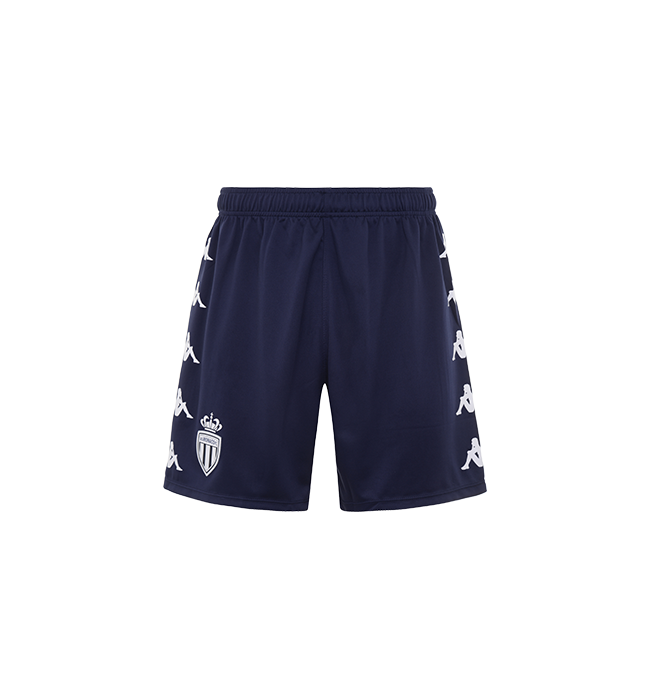
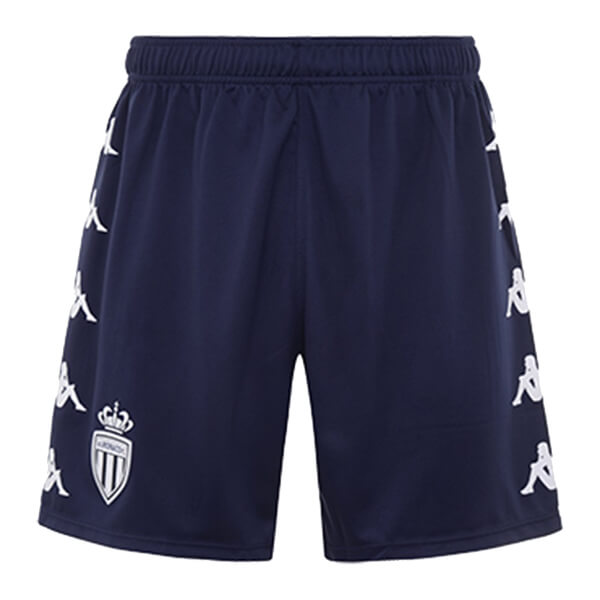
done ligue 1

diff --git a/src/Data/ProductInfo.js b/src/Data/ProductInfo.js
@@ -1497,6 +1497,355 @@ const ProductsInfo = [
     point: 3,
     des: "Lorem ipsum dolor sit amet, consectetur adipisicing elit. Quia nesciunt distinctio reprehenderit ad est mollitia ducimus neque consequuntur eos perferendis id pariatur, magnam quae esse facilis nihil accusantium deserunt totam."
 },
+/* end La Liga */
+/* monaco */
+{
+    id: "LG1MNCH2020SHIRT",
+    league: "Ligue 1",
+    club: "AS Monaco",
+    name: "Áo đấu AS Monaco sân nhà 2020/2021",
+    price: 1300000,
+    place: "home",
+    type: "shirt",
+    main_image: require("../Assets/images/product/ligue1/monaco/home/hu1.jpg"),
+    slide_image: [
+        require("../Assets/images/product/ligue1/monaco/home/hu1.jpg"),
+        require("../Assets/images/product/ligue1/monaco/home/hu2.jpg"),
+        require("../Assets/images/product/ligue1/monaco/home/hu3.jpg"),
+    ],
+    size: ["S", "M", "L", "XL", "2XL"],
+    top_sales: true,
+    top_viewed: true,
+    champion: true,
+    promotion: "10%",
+    point: 2,
+    des: "Lorem ipsum dolor sit amet, consectetur adipisicing elit. Quia nesciunt distinctio reprehenderit ad est mollitia ducimus neque consequuntur eos perferendis id pariatur, magnam quae esse facilis nihil accusantium deserunt totam."
+},
+{
+    id: "LG1MNCH2020SHORT",
+    league: "Ligue 1",
+    club: "AS Monaco",
+    name: "Quần AS Monaco sân nhà 2020/2021",
+    price: 400000,
+    place: "home",
+    type: "short",
+    main_image: require("../Assets/images/product/ligue1/monaco/home/hd1.jpg"),
+    slide_image: [
+        require("../Assets/images/product/ligue1/monaco/home/hd1.jpg"),
+        require("../Assets/images/product/ligue1/monaco/home/hd2.jpg")
+    ],
+    size: ["S", "M", "L", "XL", "2XL"],
+    top_sales: true,
+    top_viewed: true,
+    champion: true,
+    promotion: "",
+    point: 2,
+    des: "Lorem ipsum dolor sit amet, consectetur adipisicing elit. Quia nesciunt distinctio reprehenderit ad est mollitia ducimus neque consequuntur eos perferendis id pariatur, magnam quae esse facilis nihil accusantium deserunt totam."
+},
+{
+    id: "LG1MNCA2020SHIRT",
+    league: "Ligue 1",
+    club: "AS Monaco",
+    name: "Áo đấu AS Monaco sân khách 2020/2021",
+    price: 1200000,
+    place: "away",
+    type: "shirt",
+    main_image: require("../Assets/images/product/ligue1/monaco/away/au1.jpg"),
+    slide_image: [
+        require("../Assets/images/product/ligue1/monaco/away/au1.jpg"),
+        require("../Assets/images/product/ligue1/monaco/away/au2.jpg"),
+        require("../Assets/images/product/ligue1/monaco/away/au3.jpg"),
+    ],
+    size: ["S", "M", "L", "XL", "2XL"],
+    top_sales: true,
+    top_viewed: true,
+    champion: true,
+    promotion: "5%",
+    point: 2,
+    des: "Lorem ipsum dolor sit amet, consectetur adipisicing elit. Quia nesciunt distinctio reprehenderit ad est mollitia ducimus neque consequuntur eos perferendis id pariatur, magnam quae esse facilis nihil accusantium deserunt totam."
+},
+{
+    id: "LG1MNCA2020SHORT",
+    league: "Ligue 1",
+    club: "AS Monaco",
+    name: "Quần AS Monaco sân khách 2020/2021",
+    price: 400000,
+    place: "away",
+    type: "short",
+    main_image: require("../Assets/images/product/ligue1/monaco/away/ad1.jpg"),
+    slide_image: [
+        require("../Assets/images/product/ligue1/monaco/away/ad1.jpg"),
+        require("../Assets/images/product/ligue1/monaco/away/ad2.jpg")
+    ],
+    size: ["S", "M", "L", "XL", "2XL"],
+    top_sales: true,
+    top_viewed: true,
+    champion: true,
+    promotion: "15%",
+    point: 3,
+    des: "Lorem ipsum dolor sit amet, consectetur adipisicing elit. Quia nesciunt distinctio reprehenderit ad est mollitia ducimus neque consequuntur eos perferendis id pariatur, magnam quae esse facilis nihil accusantium deserunt totam."
+},
+/* olympique-lyonnais */
+{
+    id: "LG1OLOH2020SHIRT",
+    league: "Ligue 1",
+    club: "Olympique Lyonnais",
+    name: "Áo đấu Olympique Lyonnais sân nhà 2020/2021",
+    price: 1400000,
+    place: "home",
+    type: "shirt",
+    main_image: require("../Assets/images/product/ligue1/olympique-lyonnais/home/hu1.jpg"),
+    slide_image: [
+        require("../Assets/images/product/ligue1/olympique-lyonnais/home/hu1.jpg"),
+        require("../Assets/images/product/ligue1/olympique-lyonnais/home/hu2.jpg"),
+        require("../Assets/images/product/ligue1/olympique-lyonnais/home/hu3.jpg"),
+    ],
+    size: ["S", "M", "L", "XL", "2XL"],
+    top_sales: true,
+    top_viewed: true,
+    champion: true,
+    promotion: "20%",
+    point: 2,
+    des: "Lorem ipsum dolor sit amet, consectetur adipisicing elit. Quia nesciunt distinctio reprehenderit ad est mollitia ducimus neque consequuntur eos perferendis id pariatur, magnam quae esse facilis nihil accusantium deserunt totam."
+},
+{
+    id: "LG1OLOH2020SHORT",
+    league: "Ligue 1",
+    club: "Olympique Lyonnais",
+    name: "Quần Olympique Lyonnais sân nhà 2020/2021",
+    price: 600000,
+    place: "home",
+    type: "short",
+    main_image: require("../Assets/images/product/ligue1/olympique-lyonnais/home/hd1.jpg"),
+    slide_image: [
+        require("../Assets/images/product/ligue1/olympique-lyonnais/home/hd1.jpg"),
+        require("../Assets/images/product/ligue1/olympique-lyonnais/home/hd2.jpg")
+    ],
+    size: ["S", "M", "L", "XL", "2XL"],
+    top_sales: true,
+    top_viewed: true,
+    champion: true,
+    promotion: "",
+    point: 3,
+    des: "Lorem ipsum dolor sit amet, consectetur adipisicing elit. Quia nesciunt distinctio reprehenderit ad est mollitia ducimus neque consequuntur eos perferendis id pariatur, magnam quae esse facilis nihil accusantium deserunt totam."
+},
+{
+    id: "LG1OLOA2020SHIRT",
+    league: "Ligue 1",
+    club: "Olympique Lyonnais",
+    name: "Áo đấu Olympique Lyonnais sân khách 2020/2021",
+    price: 1400000,
+    place: "away",
+    type: "shirt",
+    main_image: require("../Assets/images/product/ligue1/olympique-lyonnais/away/au1.jpg"),
+    slide_image: [
+        require("../Assets/images/product/ligue1/olympique-lyonnais/away/au1.jpg"),
+        require("../Assets/images/product/ligue1/olympique-lyonnais/away/au2.jpg"),
+        require("../Assets/images/product/ligue1/olympique-lyonnais/away/au3.jpg"),
+    ],
+    size: ["S", "M", "L", "XL", "2XL"],
+    top_sales: true,
+    top_viewed: true,
+    champion: true,
+    promotion: "15%",
+    point: 2,
+    des: "Lorem ipsum dolor sit amet, consectetur adipisicing elit. Quia nesciunt distinctio reprehenderit ad est mollitia ducimus neque consequuntur eos perferendis id pariatur, magnam quae esse facilis nihil accusantium deserunt totam."
+},
+{
+    id: "LG1OLOA2020SHORT",
+    league: "Ligue 1",
+    club: "Olympique Lyonnais",
+    name: "Quần Olympique Lyonnais sân khách 2020/2021",
+    price: 400000,
+    place: "away",
+    type: "short",
+    main_image: require("../Assets/images/product/ligue1/olympique-lyonnais/away/ad1.jpg"),
+    slide_image: [
+        require("../Assets/images/product/ligue1/olympique-lyonnais/away/ad1.jpg"),
+        require("../Assets/images/product/ligue1/olympique-lyonnais/away/ad2.jpg")
+    ],
+    size: ["S", "M", "L", "XL", "2XL"],
+    top_sales: true,
+    top_viewed: true,
+    champion: true,
+    promotion: "15%",
+    point: 3,
+    des: "Lorem ipsum dolor sit amet, consectetur adipisicing elit. Quia nesciunt distinctio reprehenderit ad est mollitia ducimus neque consequuntur eos perferendis id pariatur, magnam quae esse facilis nihil accusantium deserunt totam."
+},
+/* olympique-marseille */
+{
+    id: "LG1OMSH2020SHIRT",
+    league: "Ligue 1",
+    club: "Olympique Marseille",
+    name: "Áo đấu Olympique Marseille sân nhà 2020/2021",
+    price: 1500000,
+    place: "home",
+    type: "shirt",
+    main_image: require("../Assets/images/product/ligue1/olympique-marseille/home/hu1.jpg"),
+    slide_image: [
+        require("../Assets/images/product/ligue1/olympique-marseille/home/hu1.jpg"),
+        require("../Assets/images/product/ligue1/olympique-marseille/home/hu2.jpg"),
+        require("../Assets/images/product/ligue1/olympique-marseille/home/hu3.jpg"),
+    ],
+    size: ["S", "M", "L", "XL", "2XL"],
+    top_sales: true,
+    top_viewed: true,
+    champion: true,
+    promotion: "10%",
+    point: 2,
+    des: "Lorem ipsum dolor sit amet, consectetur adipisicing elit. Quia nesciunt distinctio reprehenderit ad est mollitia ducimus neque consequuntur eos perferendis id pariatur, magnam quae esse facilis nihil accusantium deserunt totam."
+},
+{
+    id: "LG1OMSH2020SHORT",
+    league: "Ligue 1",
+    club: "Olympique Marseille",
+    name: "Quần Olympique Marseille sân nhà 2020/2021",
+    price: 700000,
+    place: "home",
+    type: "short",
+    main_image: require("../Assets/images/product/ligue1/olympique-marseille/home/hd1.jpg"),
+    slide_image: [
+        require("../Assets/images/product/ligue1/olympique-marseille/home/hd1.jpg"),
+        require("../Assets/images/product/ligue1/olympique-marseille/home/hd2.jpg")
+    ],
+    size: ["S", "M", "L", "XL", "2XL"],
+    top_sales: true,
+    top_viewed: true,
+    champion: true,
+    promotion: "",
+    point: 3,
+    des: "Lorem ipsum dolor sit amet, consectetur adipisicing elit. Quia nesciunt distinctio reprehenderit ad est mollitia ducimus neque consequuntur eos perferendis id pariatur, magnam quae esse facilis nihil accusantium deserunt totam."
+},
+{
+    id: "LG1OMSA2020SHIRT",
+    league: "Ligue 1",
+    club: "Olympique Marseille",
+    name: "Áo đấu Olympique Marseille sân khách 2020/2021",
+    price: 1500000,
+    place: "away",
+    type: "shirt",
+    main_image: require("../Assets/images/product/ligue1/olympique-marseille/away/au1.jpg"),
+    slide_image: [
+        require("../Assets/images/product/ligue1/olympique-marseille/away/au1.jpg"),
+        require("../Assets/images/product/ligue1/olympique-marseille/away/au2.jpg"),
+        require("../Assets/images/product/ligue1/olympique-marseille/away/au3.jpg"),
+    ],
+    size: ["S", "M", "L", "XL", "2XL"],
+    top_sales: true,
+    top_viewed: true,
+    champion: true,
+    promotion: "25%",
+    point: 2,
+    des: "Lorem ipsum dolor sit amet, consectetur adipisicing elit. Quia nesciunt distinctio reprehenderit ad est mollitia ducimus neque consequuntur eos perferendis id pariatur, magnam quae esse facilis nihil accusantium deserunt totam."
+},
+{
+    id: "LG1OMSA2020SHORT",
+    league: "Ligue 1",
+    club: "Olympique Marseille",
+    name: "Quần Olympique Marseille sân khách 2020/2021",
+    price: 500000,
+    place: "away",
+    type: "short",
+    main_image: require("../Assets/images/product/ligue1/olympique-marseille/away/ad1.jpg"),
+    slide_image: [
+        require("../Assets/images/product/ligue1/olympique-marseille/away/ad1.jpg"),
+        require("../Assets/images/product/ligue1/olympique-marseille/away/ad2.jpg")
+    ],
+    size: ["S", "M", "L", "XL", "2XL"],
+    top_sales: true,
+    top_viewed: true,
+    champion: true,
+    promotion: "20%",
+    point: 3,
+    des: "Lorem ipsum dolor sit amet, consectetur adipisicing elit. Quia nesciunt distinctio reprehenderit ad est mollitia ducimus neque consequuntur eos perferendis id pariatur, magnam quae esse facilis nihil accusantium deserunt totam."
+},
+/* PSG */
+{
+    id: "LG1PSGH2020SHIRT",
+    league: "Ligue 1",
+    club: "Paris Saint Germain",
+    name: "Áo đấu Paris Saint Germain sân nhà 2020/2021",
+    price: 1900000,
+    place: "home",
+    type: "shirt",
+    main_image: require("../Assets/images/product/ligue1/psg/home/hu1.jpg"),
+    slide_image: [
+        require("../Assets/images/product/ligue1/psg/home/hu1.jpg"),
+        require("../Assets/images/product/ligue1/psg/home/hu2.jpg"),
+        require("../Assets/images/product/ligue1/psg/home/hu3.jpg"),
+    ],
+    size: ["S", "M", "L", "XL", "2XL"],
+    top_sales: true,
+    top_viewed: true,
+    champion: true,
+    promotion: "20%",
+    point: 5,
+    des: "Lorem ipsum dolor sit amet, consectetur adipisicing elit. Quia nesciunt distinctio reprehenderit ad est mollitia ducimus neque consequuntur eos perferendis id pariatur, magnam quae esse facilis nihil accusantium deserunt totam."
+},
+{
+    id: "LG1PSGH2020SHORT",
+    league: "Ligue 1",
+    club: "Paris Saint Germain",
+    name: "Quần Paris Saint Germain sân nhà 2020/2021",
+    price: 800000,
+    place: "home",
+    type: "short",
+    main_image: require("../Assets/images/product/ligue1/psg/home/hd1.jpg"),
+    slide_image: [
+        require("../Assets/images/product/ligue1/psg/home/hd1.jpg"),
+        require("../Assets/images/product/ligue1/psg/home/hd2.jpg")
+    ],
+    size: ["S", "M", "L", "XL", "2XL"],
+    top_sales: true,
+    top_viewed: true,
+    champion: true,
+    promotion: "",
+    point: 3,
+    des: "Lorem ipsum dolor sit amet, consectetur adipisicing elit. Quia nesciunt distinctio reprehenderit ad est mollitia ducimus neque consequuntur eos perferendis id pariatur, magnam quae esse facilis nihil accusantium deserunt totam."
+},
+{
+    id: "LG1PSGA2020SHIRT",
+    league: "Ligue 1",
+    club: "Paris Saint Germain",
+    name: "Áo đấu Paris Saint Germain sân khách 2020/2021",
+    price: 1900000,
+    place: "away",
+    type: "shirt",
+    main_image: require("../Assets/images/product/ligue1/psg/away/au1.jpg"),
+    slide_image: [
+        require("../Assets/images/product/ligue1/psg/away/au1.jpg"),
+        require("../Assets/images/product/ligue1/psg/away/au2.jpg"),
+        require("../Assets/images/product/ligue1/psg/away/au3.jpg"),
+    ],
+    size: ["S", "M", "L", "XL", "2XL"],
+    top_sales: true,
+    top_viewed: true,
+    champion: true,
+    promotion: "15%",
+    point: 5,
+    des: "Lorem ipsum dolor sit amet, consectetur adipisicing elit. Quia nesciunt distinctio reprehenderit ad est mollitia ducimus neque consequuntur eos perferendis id pariatur, magnam quae esse facilis nihil accusantium deserunt totam."
+},
+{
+    id: "LG1PSGA2020SHORT",
+    league: "Ligue 1",
+    club: "Paris Saint Germain",
+    name: "Quần Paris Saint Germain sân khách 2020/2021",
+    price: 800000,
+    place: "away",
+    type: "short",
+    main_image: require("../Assets/images/product/ligue1/psg/away/ad1.jpg"),
+    slide_image: [
+        require("../Assets/images/product/ligue1/psg/away/ad1.jpg"),
+        require("../Assets/images/product/ligue1/psg/away/ad2.jpg")
+    ],
+    size: ["S", "M", "L", "XL", "2XL"],
+    top_sales: true,
+    top_viewed: true,
+    champion: true,
+    promotion: "10%",
+    point: 1,
+    des: "Lorem ipsum dolor sit amet, consectetur adipisicing elit. Quia nesciunt distinctio reprehenderit ad est mollitia ducimus neque consequuntur eos perferendis id pariatur, magnam quae esse facilis nihil accusantium deserunt totam."
+},
 ];
 
 export default ProductsInfo
